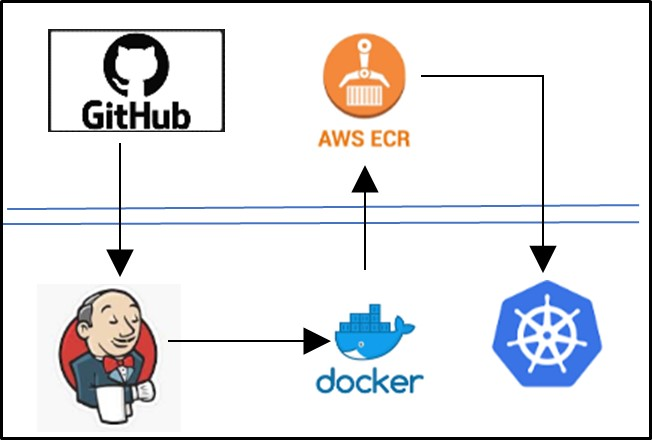
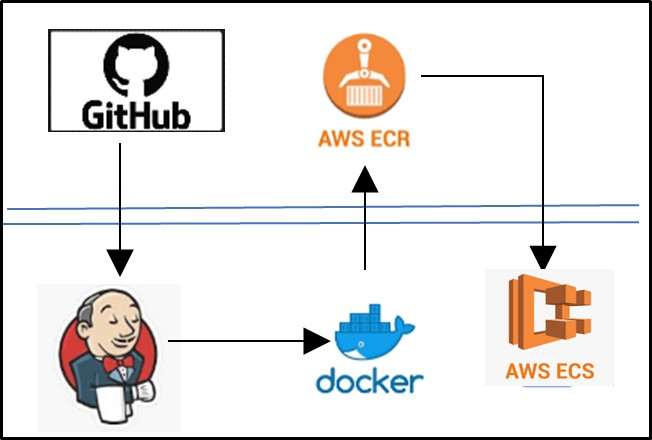
portfollio template

Changed region(s): [[0.7362, 0.6205, 0.9509, 0.8864]]

diff --git a/Vprofile_docker.html b/Vprofile_docker.html
@@ -213,7 +213,7 @@ and reducing feedback time between developers and testers.</p>
             </div>
             <div class="project-description">
                 <h2>My Role</h2><br>
-                <img src="assets/images/project/img_p2_24.jpg" alt="Project Image" style="display: block; margin: 0 auto;"><br><br>
+                <img src="assets/images/project/img_p3_6.jpg" alt="Project Image" style="display: block; margin: 0 auto;"><br><br>
                 <p>Create an EC2 instance with below properties<br><br>
                     <strong>Jenkins</strong> t2.medium | 8Gb RAM | Ubuntu 22.04 LTS<br>
                     <strong>SonarQube</strong> t2.medium | 8Gb RAM  | Ubuntu 22.04 LTS<br>
